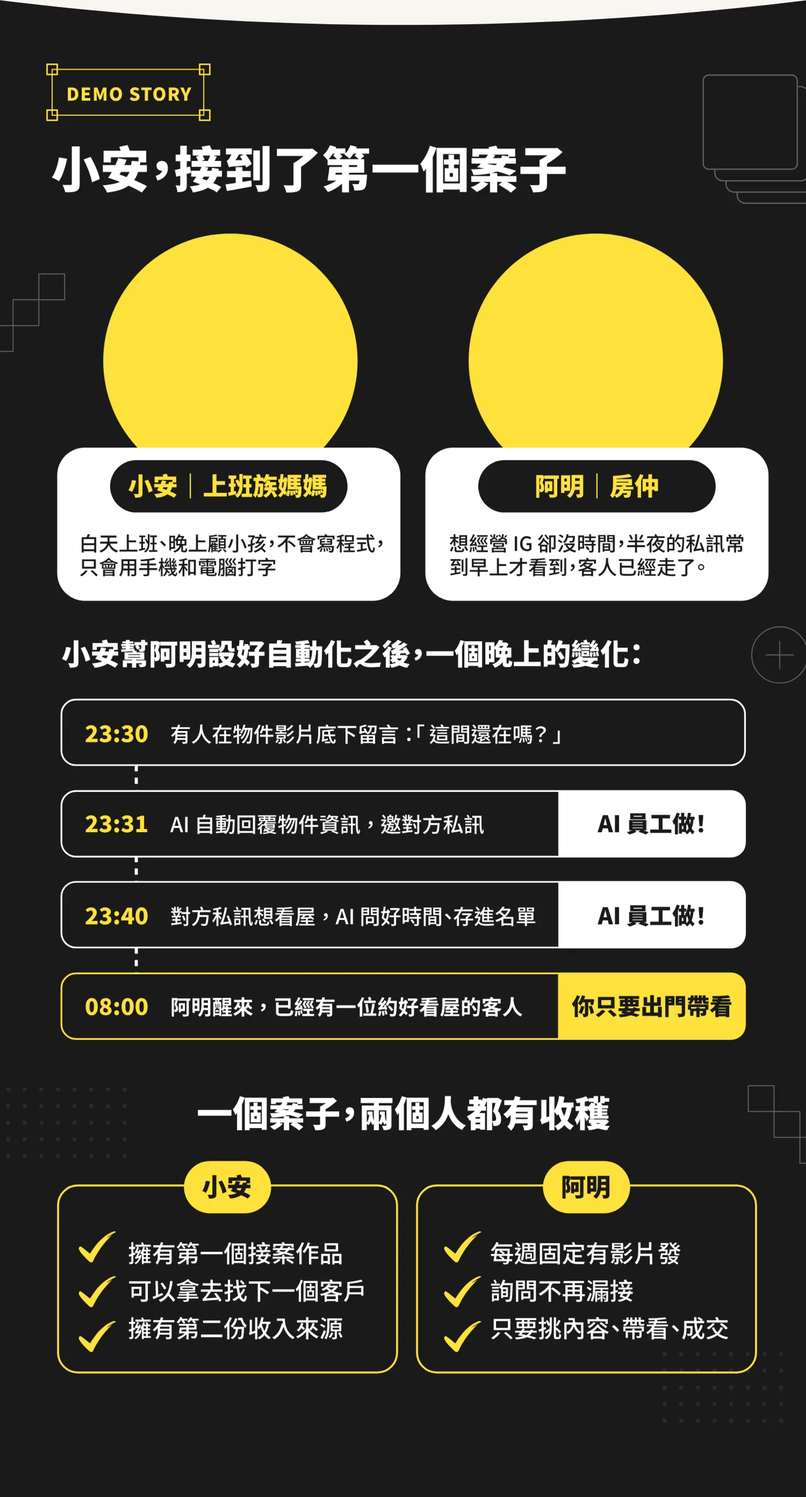
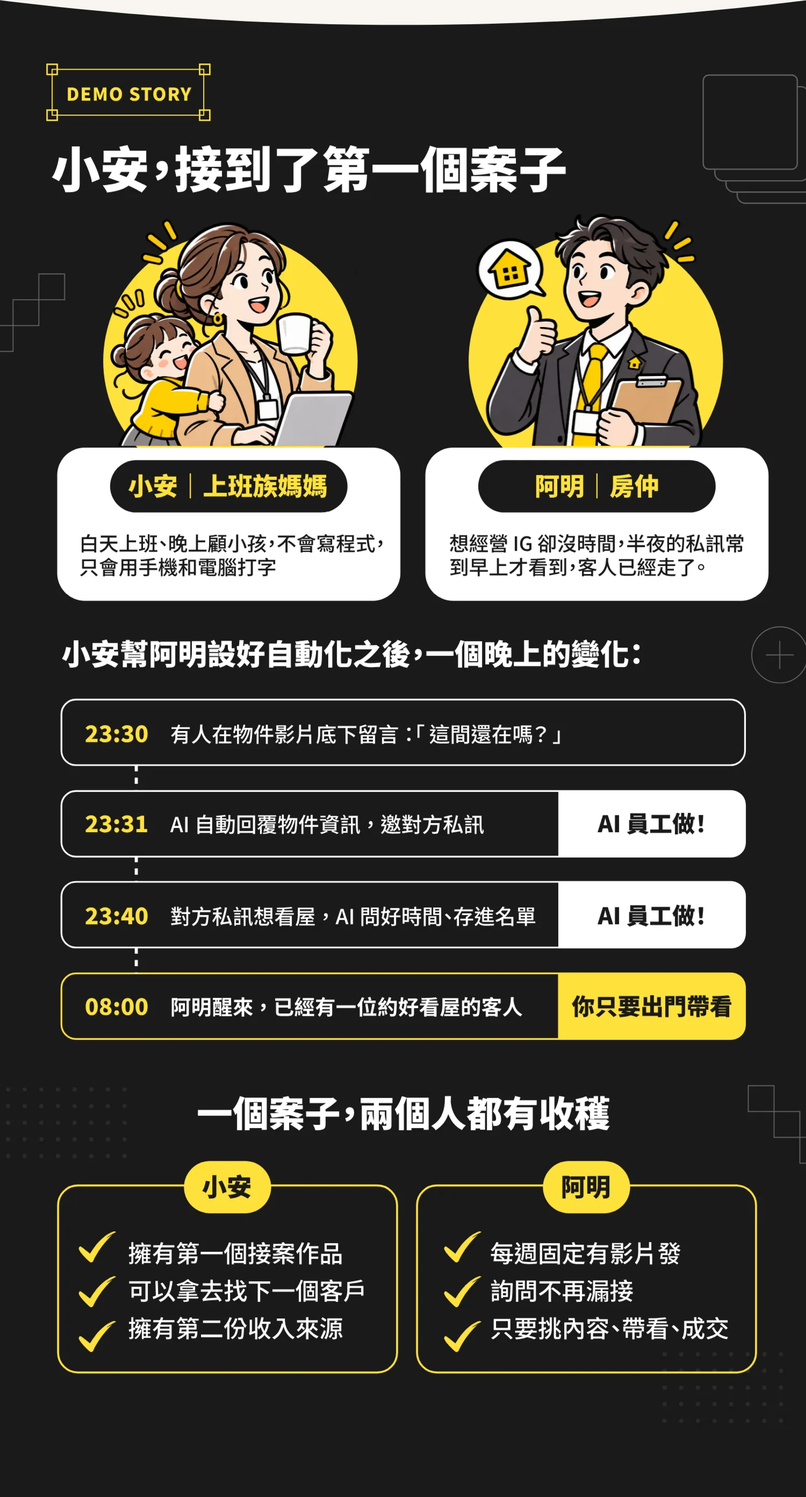
br-order: bake illustrations into section bases; animate only buttons and emphasis
Claude-Session: https://claude.ai/code/session_016nzG4RAtAFM2gf9k9NB6ra

Changed region(s): [[0.5827, 0.1236, 0.8893, 0.309], [0.1227, 0.1236, 0.46, 0.309]]

diff --git a/br-order/index.html b/br-order/index.html
@@ -35,116 +35,88 @@ html,body{margin:0;background:#101014}
 <body>
 <main class="page">
 <section class="sec" style="aspect-ratio:1500/2582">
-<img class="base" src="./s01/base.webp?v=2" alt="" width="1500" height="2582">
-<div class="ill float" style="left:25.162%;top:45.984%;width:52.667%;--d:0.0s"><img src="./s01/l9.webp?v=2" alt="" loading="lazy"></div>
-<div class="ill swing" style="left:5.262%;top:26.57%;width:18.067%;--d:-0.9s"><img src="./s01/l13.webp?v=2" alt="" loading="lazy"></div>
-<div class="fx pulse shine" style="left:12.667%;top:77.847%;width:76.667%;height:6.584%;background-image:url(./s01/base.webp?v=2);background-size:130.435% auto;background-position:54.286% 83.333%;border-radius:0.70% / 4.71%;--i:0"></div>
+<img class="base" src="./s01/base.webp?v=3" alt="" width="1500" height="2582">
+<div class="fx pulse shine" style="left:12.667%;top:77.847%;width:76.667%;height:6.584%;background-image:url(./s01/base.webp?v=3);background-size:130.435% auto;background-position:54.286% 83.333%;border-radius:0.70% / 4.71%;--i:0"></div>
 </section>
 <section class="sec" style="aspect-ratio:1500/2236">
-<img class="base" src="./s02/base.webp?v=2" alt="" width="1500" height="2236" loading="lazy">
-<div class="fx pulse" style="left:53.667%;top:12.299%;width:16.333%;height:10.063%;background-image:url(./s02/base.webp?v=2);background-size:612.245% auto;background-position:64.143% 13.675%;border-radius:0.00% / 0.00%;--i:0"></div>
-<div class="fx wiggle" style="left:8.667%;top:28.399%;width:9.000%;height:6.261%;background-image:url(./s02/base.webp?v=2);background-size:1111.111% auto;background-position:9.524% 30.296%;border-radius:0.00% / 0.00%;--i:1"></div>
-<div class="fx wiggle" style="left:8.667%;top:43.292%;width:9.000%;height:6.261%;background-image:url(./s02/base.webp?v=2);background-size:1111.111% auto;background-position:9.524% 46.183%;border-radius:0.00% / 0.00%;--i:2"></div>
-<div class="fx wiggle" style="left:8.667%;top:58.229%;width:9.000%;height:6.261%;background-image:url(./s02/base.webp?v=2);background-size:1111.111% auto;background-position:9.524% 62.118%;border-radius:0.00% / 0.00%;--i:3"></div>
-<div class="fx wiggle" style="left:8.667%;top:72.898%;width:9.000%;height:6.485%;background-image:url(./s02/base.webp?v=2);background-size:1111.111% auto;background-position:9.524% 77.953%;border-radius:0.00% / 0.00%;--i:4"></div>
-<div class="fx wiggle" style="left:86.333%;top:91.234%;width:11.000%;height:6.932%;background-image:url(./s02/base.webp?v=2);background-size:909.091% auto;background-position:97.004% 98.030%;border-radius:0.00% / 0.00%;--i:5"></div>
-<div class="fx shine soft" style="left:8.000%;top:84.302%;width:84.333%;height:11.852%;background-image:url(./s02/base.webp?v=2);background-size:118.577% auto;background-position:51.064% 95.637%;border-radius:0.00% / 0.00%;--i:6"></div>
+<img class="base" src="./s02/base.webp?v=3" alt="" width="1500" height="2236" loading="lazy">
+<div class="fx pulse" style="left:53.667%;top:12.299%;width:16.333%;height:10.063%;background-image:url(./s02/base.webp?v=3);background-size:612.245% auto;background-position:64.143% 13.675%;border-radius:0.00% / 0.00%;--i:0"></div>
+<div class="fx wiggle" style="left:8.667%;top:28.399%;width:9.000%;height:6.261%;background-image:url(./s02/base.webp?v=3);background-size:1111.111% auto;background-position:9.524% 30.296%;border-radius:0.00% / 0.00%;--i:1"></div>
+<div class="fx wiggle" style="left:8.667%;top:43.292%;width:9.000%;height:6.261%;background-image:url(./s02/base.webp?v=3);background-size:1111.111% auto;background-position:9.524% 46.183%;border-radius:0.00% / 0.00%;--i:2"></div>
+<div class="fx wiggle" style="left:8.667%;top:58.229%;width:9.000%;height:6.261%;background-image:url(./s02/base.webp?v=3);background-size:1111.111% auto;background-position:9.524% 62.118%;border-radius:0.00% / 0.00%;--i:3"></div>
+<div class="fx wiggle" style="left:8.667%;top:72.898%;width:9.000%;height:6.485%;background-image:url(./s02/base.webp?v=3);background-size:1111.111% auto;background-position:9.524% 77.953%;border-radius:0.00% / 0.00%;--i:4"></div>
+<div class="fx shine soft" style="left:8.000%;top:84.302%;width:84.333%;height:11.852%;background-image:url(./s02/base.webp?v=3);background-size:118.577% auto;background-position:51.064% 95.637%;border-radius:0.00% / 0.00%;--i:5"></div>
 </section>
 <section class="sec" style="aspect-ratio:1500/2217">
-<img class="base" src="./s03/base.webp?v=2" alt="" width="1500" height="2217" loading="lazy">
-<div class="fx wiggle" style="left:2.000%;top:4.511%;width:15.000%;height:6.540%;background-image:url(./s03/base.webp?v=2);background-size:666.667% auto;background-position:2.353% 4.826%;border-radius:0.00% / 0.00%;--i:0"></div>
-<div class="fx beat" style="left:6.667%;top:26.387%;width:17.667%;height:6.089%;background-image:url(./s03/base.webp?v=2);background-size:566.038% auto;background-position:8.097% 28.098%;border-radius:0.00% / 0.00%;--i:1"></div>
-<div class="fx beat" style="left:52.667%;top:26.387%;width:17.667%;height:6.089%;background-image:url(./s03/base.webp?v=2);background-size:566.038% auto;background-position:63.968% 28.098%;border-radius:0.00% / 0.00%;--i:2"></div>
-<div class="fx beat" style="left:6.667%;top:45.196%;width:28.000%;height:5.683%;background-image:url(./s03/base.webp?v=2);background-size:357.143% auto;background-position:9.259% 47.920%;border-radius:0.00% / 0.00%;--i:3"></div>
-<div class="fx beat" style="left:52.667%;top:45.196%;width:29.200%;height:5.683%;background-image:url(./s03/base.webp?v=2);background-size:342.466% auto;background-position:74.388% 47.920%;border-radius:0.00% / 0.00%;--i:4"></div>
-<div class="fx beat" style="left:6.667%;top:64.051%;width:23.200%;height:6.180%;background-image:url(./s03/base.webp?v=2);background-size:431.034% auto;background-position:8.681% 68.269%;border-radius:0.00% / 0.00%;--i:5"></div>
-<div class="fx beat" style="left:52.667%;top:64.051%;width:27.200%;height:6.180%;background-image:url(./s03/base.webp?v=2);background-size:367.647% auto;background-position:72.344% 68.269%;border-radius:0.00% / 0.00%;--i:6"></div>
-<div class="fx shine" style="left:5.667%;top:88.408%;width:88.667%;height:5.954%;background-image:url(./s03/base.webp?v=2);background-size:112.782% auto;background-position:50.000% 94.005%;border-radius:0.00% / 0.00%;--i:7"></div>
+<img class="base" src="./s03/base.webp?v=3" alt="" width="1500" height="2217" loading="lazy">
+<div class="fx beat" style="left:6.667%;top:26.387%;width:17.667%;height:6.089%;background-image:url(./s03/base.webp?v=3);background-size:566.038% auto;background-position:8.097% 28.098%;border-radius:0.00% / 0.00%;--i:0"></div>
+<div class="fx beat" style="left:52.667%;top:26.387%;width:17.667%;height:6.089%;background-image:url(./s03/base.webp?v=3);background-size:566.038% auto;background-position:63.968% 28.098%;border-radius:0.00% / 0.00%;--i:1"></div>
+<div class="fx beat" style="left:6.667%;top:45.196%;width:28.000%;height:5.683%;background-image:url(./s03/base.webp?v=3);background-size:357.143% auto;background-position:9.259% 47.920%;border-radius:0.00% / 0.00%;--i:2"></div>
+<div class="fx beat" style="left:52.667%;top:45.196%;width:29.200%;height:5.683%;background-image:url(./s03/base.webp?v=3);background-size:342.466% auto;background-position:74.388% 47.920%;border-radius:0.00% / 0.00%;--i:3"></div>
+<div class="fx beat" style="left:6.667%;top:64.051%;width:23.200%;height:6.180%;background-image:url(./s03/base.webp?v=3);background-size:431.034% auto;background-position:8.681% 68.269%;border-radius:0.00% / 0.00%;--i:4"></div>
+<div class="fx beat" style="left:52.667%;top:64.051%;width:27.200%;height:6.180%;background-image:url(./s03/base.webp?v=3);background-size:367.647% auto;background-position:72.344% 68.269%;border-radius:0.00% / 0.00%;--i:5"></div>
+<div class="fx shine" style="left:5.667%;top:88.408%;width:88.667%;height:5.954%;background-image:url(./s03/base.webp?v=3);background-size:112.782% auto;background-position:50.000% 94.005%;border-radius:0.00% / 0.00%;--i:6"></div>
 </section>
 <section class="sec" style="aspect-ratio:1500/3288">
-<img class="base" src="./s04/base.webp?v=2" alt="" width="1500" height="3288" loading="lazy">
-<div class="fx pulse" style="left:60.000%;top:14.599%;width:36.000%;height:5.627%;background-image:url(./s04/base.webp?v=2);background-size:277.778% auto;background-position:93.750% 15.469%;border-radius:0.00% / 0.00%;--i:0"></div>
-<div class="fx pulse" style="left:7.467%;top:47.597%;width:14.933%;height:6.904%;background-image:url(./s04/base.webp?v=2);background-size:669.643% auto;background-position:8.777% 51.127%;border-radius:0.00% / 0.00%;--i:1"></div>
-<div class="fx pulse" style="left:34.467%;top:47.597%;width:15.200%;height:6.904%;background-image:url(./s04/base.webp?v=2);background-size:657.895% auto;background-position:40.645% 51.127%;border-radius:0.00% / 0.00%;--i:2"></div>
-<div class="fx pulse" style="left:63.533%;top:47.597%;width:15.000%;height:6.904%;background-image:url(./s04/base.webp?v=2);background-size:666.667% auto;background-position:74.745% 51.127%;border-radius:0.00% / 0.00%;--i:3"></div>
-<div class="fx pulse" style="left:67.467%;top:57.725%;width:21.867%;height:3.467%;background-image:url(./s04/base.webp?v=2);background-size:457.317% auto;background-position:86.348% 59.798%;border-radius:0.00% / 0.00%;--i:4"></div>
-<div class="fx pulse" style="left:67.467%;top:65.328%;width:21.867%;height:3.528%;background-image:url(./s04/base.webp?v=2);background-size:457.317% auto;background-position:86.348% 67.718%;border-radius:0.00% / 0.00%;--i:5"></div>
-<div class="fx pulse" style="left:67.467%;top:73.084%;width:21.867%;height:3.528%;background-image:url(./s04/base.webp?v=2);background-size:457.317% auto;background-position:86.348% 75.757%;border-radius:0.00% / 0.00%;--i:6"></div>
-<div class="fx pulse" style="left:66.667%;top:80.748%;width:22.667%;height:3.498%;background-image:url(./s04/base.webp?v=2);background-size:441.176% auto;background-position:86.207% 83.675%;border-radius:0.00% / 0.00%;--i:7"></div>
-<div class="fx pulse shine" style="left:12.667%;top:89.964%;width:74.667%;height:5.687%;background-image:url(./s04/base.webp?v=2);background-size:133.929% auto;background-position:50.000% 95.389%;border-radius:8.04% / 48.13%;--i:8"></div>
+<img class="base" src="./s04/base.webp?v=3" alt="" width="1500" height="3288" loading="lazy">
+<div class="fx pulse" style="left:60.000%;top:14.599%;width:36.000%;height:5.627%;background-image:url(./s04/base.webp?v=3);background-size:277.778% auto;background-position:93.750% 15.469%;border-radius:0.00% / 0.00%;--i:0"></div>
+<div class="fx pulse" style="left:67.467%;top:57.725%;width:21.867%;height:3.467%;background-image:url(./s04/base.webp?v=3);background-size:457.317% auto;background-position:86.348% 59.798%;border-radius:0.00% / 0.00%;--i:1"></div>
+<div class="fx pulse" style="left:67.467%;top:65.328%;width:21.867%;height:3.528%;background-image:url(./s04/base.webp?v=3);background-size:457.317% auto;background-position:86.348% 67.718%;border-radius:0.00% / 0.00%;--i:2"></div>
+<div class="fx pulse" style="left:67.467%;top:73.084%;width:21.867%;height:3.528%;background-image:url(./s04/base.webp?v=3);background-size:457.317% auto;background-position:86.348% 75.757%;border-radius:0.00% / 0.00%;--i:3"></div>
+<div class="fx pulse" style="left:66.667%;top:80.748%;width:22.667%;height:3.498%;background-image:url(./s04/base.webp?v=3);background-size:441.176% auto;background-position:86.207% 83.675%;border-radius:0.00% / 0.00%;--i:4"></div>
+<div class="fx pulse shine" style="left:12.667%;top:89.964%;width:74.667%;height:5.687%;background-image:url(./s04/base.webp?v=3);background-size:133.929% auto;background-position:50.000% 95.389%;border-radius:8.04% / 48.13%;--i:5"></div>
 </section>
 <section class="sec" style="aspect-ratio:1500/1785">
-<img class="base" src="./s05/base.webp?v=2" alt="" width="1500" height="1785" loading="lazy">
-<div class="ill float" style="left:14.628%;top:27.715%;width:70.333%;--d:0.0s"><img src="./s05/l8.webp?v=2" alt="" loading="lazy"></div>
-<div class="fx shine soft" style="left:16.667%;top:14.286%;width:67.467%;height:13.445%;background-image:url(./s05/base.webp?v=2);background-size:148.221% auto;background-position:51.230% 16.505%;border-radius:0.00% / 0.00%;--i:0"></div>
-<div class="fx beat" style="left:7.867%;top:69.356%;width:25.867%;height:17.927%;background-image:url(./s05/base.webp?v=2);background-size:386.598% auto;background-position:10.612% 84.505%;border-radius:0.00% / 0.00%;--i:1"></div>
-<div class="fx beat" style="left:37.400%;top:69.356%;width:25.867%;height:17.927%;background-image:url(./s05/base.webp?v=2);background-size:386.598% auto;background-position:50.450% 84.505%;border-radius:0.00% / 0.00%;--i:2"></div>
-<div class="fx beat" style="left:66.400%;top:69.356%;width:25.933%;height:17.927%;background-image:url(./s05/base.webp?v=2);background-size:385.604% auto;background-position:89.649% 84.505%;border-radius:0.00% / 0.00%;--i:3"></div>
-<div class="fx pulse shine" style="left:13.667%;top:88.796%;width:72.667%;height:7.843%;background-image:url(./s05/base.webp?v=2);background-size:137.615% auto;background-position:50.000% 96.353%;border-radius:0.92% / 7.14%;--i:4"></div>
+<img class="base" src="./s05/base.webp?v=3" alt="" width="1500" height="1785" loading="lazy">
+<div class="fx shine soft" style="left:16.667%;top:14.286%;width:67.467%;height:13.445%;background-image:url(./s05/base.webp?v=3);background-size:148.221% auto;background-position:51.230% 16.505%;border-radius:0.00% / 0.00%;--i:0"></div>
+<div class="fx beat" style="left:7.867%;top:69.356%;width:25.867%;height:17.927%;background-image:url(./s05/base.webp?v=3);background-size:386.598% auto;background-position:10.612% 84.505%;border-radius:0.00% / 0.00%;--i:1"></div>
+<div class="fx beat" style="left:37.400%;top:69.356%;width:25.867%;height:17.927%;background-image:url(./s05/base.webp?v=3);background-size:386.598% auto;background-position:50.450% 84.505%;border-radius:0.00% / 0.00%;--i:2"></div>
+<div class="fx beat" style="left:66.400%;top:69.356%;width:25.933%;height:17.927%;background-image:url(./s05/base.webp?v=3);background-size:385.604% auto;background-position:89.649% 84.505%;border-radius:0.00% / 0.00%;--i:3"></div>
+<div class="fx pulse shine" style="left:13.667%;top:88.796%;width:72.667%;height:7.843%;background-image:url(./s05/base.webp?v=3);background-size:137.615% auto;background-position:50.000% 96.353%;border-radius:0.92% / 7.14%;--i:4"></div>
 </section>
 <section class="sec" style="aspect-ratio:1500/2783">
-<img class="base" src="./s06/base.webp?v=2" alt="" width="1500" height="2783" loading="lazy">
-<div class="ill float" style="left:13.629%;top:14.6%;width:30.733%;--d:0.0s"><img src="./s06/l15.webp?v=2" alt="" loading="lazy"></div>
-<div class="ill float" style="left:58.948%;top:14.238%;width:28.4%;--d:-0.9s"><img src="./s06/l16.webp?v=2" alt="" loading="lazy"></div>
-<div class="fx shine" style="left:6.000%;top:3.881%;width:20.333%;height:4.312%;background-image:url(./s06/base.webp?v=2);background-size:491.803% auto;background-position:7.531% 4.056%;border-radius:0.00% / 0.00%;--i:0"></div>
-<div class="fx pulse" style="left:69.333%;top:52.641%;width:23.333%;height:4.635%;background-image:url(./s06/base.webp?v=2);background-size:428.571% auto;background-position:90.435% 55.200%;border-radius:0.00% / 0.00%;--i:1"></div>
-<div class="fx pulse" style="left:69.333%;top:58.714%;width:23.333%;height:4.743%;background-image:url(./s06/base.webp?v=2);background-size:428.571% auto;background-position:90.435% 61.637%;border-radius:0.00% / 0.00%;--i:2"></div>
-<div class="fx pulse" style="left:69.333%;top:64.894%;width:23.333%;height:4.563%;background-image:url(./s06/base.webp?v=2);background-size:428.571% auto;background-position:90.435% 67.997%;border-radius:0.00% / 0.00%;--i:3"></div>
+<img class="base" src="./s06/base.webp?v=3" alt="" width="1500" height="2783" loading="lazy">
+<div class="fx shine" style="left:6.000%;top:3.881%;width:20.333%;height:4.312%;background-image:url(./s06/base.webp?v=3);background-size:491.803% auto;background-position:7.531% 4.056%;border-radius:0.00% / 0.00%;--i:0"></div>
+<div class="fx pulse" style="left:69.333%;top:52.641%;width:23.333%;height:4.635%;background-image:url(./s06/base.webp?v=3);background-size:428.571% auto;background-position:90.435% 55.200%;border-radius:0.00% / 0.00%;--i:1"></div>
+<div class="fx pulse" style="left:69.333%;top:58.714%;width:23.333%;height:4.743%;background-image:url(./s06/base.webp?v=3);background-size:428.571% auto;background-position:90.435% 61.637%;border-radius:0.00% / 0.00%;--i:2"></div>
+<div class="fx pulse" style="left:69.333%;top:64.894%;width:23.333%;height:4.563%;background-image:url(./s06/base.webp?v=3);background-size:428.571% auto;background-position:90.435% 67.997%;border-radius:0.00% / 0.00%;--i:3"></div>
 </section>
 <section class="sec" style="aspect-ratio:1500/2179">
-<img class="base" src="./s07/base.webp?v=2" alt="" width="1500" height="2179" loading="lazy">
-<div class="ill float" style="left:3.647%;top:0.539%;width:22.067%;--d:0.0s"><img src="./s07/l11.webp?v=2" alt="" loading="lazy"></div>
-<div class="fx wiggle" style="left:83.667%;top:17.210%;width:12.800%;height:10.877%;background-image:url(./s07/base.webp?v=2);background-size:781.250% auto;background-position:95.948% 19.310%;border-radius:0.00% / 0.00%;--i:0"></div>
-<div class="fx wiggle" style="left:6.000%;top:60.349%;width:12.133%;height:9.867%;background-image:url(./s07/base.webp?v=2);background-size:824.176% auto;background-position:6.829% 66.955%;border-radius:0.00% / 0.00%;--i:1"></div>
-<div class="fx pulse" style="left:7.333%;top:83.892%;width:24.000%;height:7.572%;background-image:url(./s07/base.webp?v=2);background-size:416.667% auto;background-position:9.649% 90.765%;border-radius:0.00% / 0.00%;--i:2"></div>
-<div class="fx pulse shine soft" style="left:32.000%;top:84.901%;width:58.000%;height:6.654%;background-image:url(./s07/base.webp?v=2);background-size:172.414% auto;background-position:76.190% 90.954%;border-radius:0.00% / 0.00%;--i:3"></div>
+<img class="base" src="./s07/base.webp?v=3" alt="" width="1500" height="2179" loading="lazy">
+<div class="fx pulse" style="left:7.333%;top:83.892%;width:24.000%;height:7.572%;background-image:url(./s07/base.webp?v=3);background-size:416.667% auto;background-position:9.649% 90.765%;border-radius:0.00% / 0.00%;--i:0"></div>
+<div class="fx pulse shine soft" style="left:32.000%;top:84.901%;width:58.000%;height:6.654%;background-image:url(./s07/base.webp?v=3);background-size:172.414% auto;background-position:76.190% 90.954%;border-radius:0.00% / 0.00%;--i:1"></div>
 </section>
 <section class="sec" style="aspect-ratio:1500/3701">
-<img class="base" src="./s08/base.webp?v=2" alt="" width="1500" height="3701" loading="lazy">
-<div class="ill float" style="left:15.573%;top:31.108%;width:24.067%;--d:0.0s"><img src="./s08/l4.webp?v=2" alt="" loading="lazy"></div>
-<div class="ill float" style="left:61.563%;top:12.223%;width:22.867%;--d:-0.9s"><img src="./s08/l5.webp?v=2" alt="" loading="lazy"></div>
-<div class="ill float" style="left:59.254%;top:30.576%;width:25.867%;--d:-1.8s"><img src="./s08/l6.webp?v=2" alt="" loading="lazy"></div>
-<div class="ill float" style="left:14.346%;top:11.639%;width:26.933%;--d:-2.7s"><img src="./s08/l7.webp?v=2" alt="" loading="lazy"></div>
-<div class="ill float" style="left:65.0%;top:53.629%;width:30.267%;--d:-3.6s"><img src="./s08/l10.webp?v=2" alt="" loading="lazy"></div>
-<div class="fx wiggle" style="left:79.000%;top:0.811%;width:11.000%;height:5.458%;background-image:url(./s08/base.webp?v=2);background-size:909.091% auto;background-position:88.764% 0.857%;border-radius:0.00% / 0.00%;--i:0"></div>
-<div class="fx beat" style="left:6.667%;top:55.120%;width:13.000%;height:5.188%;background-image:url(./s08/base.webp?v=2);background-size:769.231% auto;background-position:7.663% 58.136%;border-radius:0.00% / 0.00%;--i:1"></div>
-<div class="fx wiggle flag" style="left:6.667%;top:62.145%;width:16.667%;height:7.160%;background-image:url(./s08/base.webp?v=2);background-size:600.000% auto;background-position:8.000% 66.938%;border-radius:0.00% / 0.00%;--i:2"></div>
-<div class="fx wiggle flag" style="left:13.800%;top:69.927%;width:16.733%;height:7.079%;background-image:url(./s08/base.webp?v=2);background-size:597.610% auto;background-position:16.573% 75.254%;border-radius:0.00% / 0.00%;--i:3"></div>
-<div class="fx wiggle flag" style="left:6.667%;top:79.573%;width:16.667%;height:6.755%;background-image:url(./s08/base.webp?v=2);background-size:600.000% auto;background-position:8.000% 85.338%;border-radius:0.00% / 0.00%;--i:4"></div>
-<div class="fx wiggle flag" style="left:13.000%;top:87.949%;width:17.533%;height:7.106%;background-image:url(./s08/base.webp?v=2);background-size:570.342% auto;background-position:15.764% 94.677%;border-radius:0.00% / 0.00%;--i:5"></div>
+<img class="base" src="./s08/base.webp?v=3" alt="" width="1500" height="3701" loading="lazy">
+<div class="fx beat" style="left:6.667%;top:55.120%;width:13.000%;height:5.188%;background-image:url(./s08/base.webp?v=3);background-size:769.231% auto;background-position:7.663% 58.136%;border-radius:0.00% / 0.00%;--i:0"></div>
 </section>
 <section class="sec" style="aspect-ratio:1500/1783">
-<img class="base" src="./s09/base.webp?v=2" alt="" width="1500" height="1783" loading="lazy">
-<div class="fx beat" style="left:9.200%;top:33.259%;width:8.267%;height:6.955%;background-image:url(./s09/base.webp?v=2);background-size:1209.677% auto;background-position:10.029% 35.744%;border-radius:0.00% / 0.00%;--i:0"></div>
-<div class="fx beat" style="left:9.200%;top:43.522%;width:8.267%;height:6.955%;background-image:url(./s09/base.webp?v=2);background-size:1209.677% auto;background-position:10.029% 46.775%;border-radius:0.00% / 0.00%;--i:1"></div>
-<div class="fx beat" style="left:9.200%;top:53.954%;width:8.267%;height:6.955%;background-image:url(./s09/base.webp?v=2);background-size:1209.677% auto;background-position:10.029% 57.987%;border-radius:0.00% / 0.00%;--i:2"></div>
-<div class="fx beat" style="left:9.200%;top:64.610%;width:8.267%;height:6.955%;background-image:url(./s09/base.webp?v=2);background-size:1209.677% auto;background-position:10.029% 69.439%;border-radius:0.00% / 0.00%;--i:3"></div>
-<div class="fx beat" style="left:9.200%;top:75.042%;width:8.267%;height:6.955%;background-image:url(./s09/base.webp?v=2);background-size:1209.677% auto;background-position:10.029% 80.651%;border-radius:0.00% / 0.00%;--i:4"></div>
-<div class="fx wiggle" style="left:53.067%;top:33.259%;width:7.933%;height:6.955%;background-image:url(./s09/base.webp?v=2);background-size:1260.504% auto;background-position:57.639% 35.744%;border-radius:0.00% / 0.00%;--i:5"></div>
-<div class="fx wiggle" style="left:53.067%;top:43.522%;width:7.933%;height:6.955%;background-image:url(./s09/base.webp?v=2);background-size:1260.504% auto;background-position:57.639% 46.775%;border-radius:0.00% / 0.00%;--i:6"></div>
-<div class="fx wiggle" style="left:53.067%;top:53.954%;width:7.933%;height:6.955%;background-image:url(./s09/base.webp?v=2);background-size:1260.504% auto;background-position:57.639% 57.987%;border-radius:0.00% / 0.00%;--i:7"></div>
-<div class="fx wiggle" style="left:53.067%;top:64.610%;width:7.933%;height:6.955%;background-image:url(./s09/base.webp?v=2);background-size:1260.504% auto;background-position:57.639% 69.439%;border-radius:0.00% / 0.00%;--i:8"></div>
-<div class="fx wiggle" style="left:53.067%;top:75.042%;width:7.933%;height:6.955%;background-image:url(./s09/base.webp?v=2);background-size:1260.504% auto;background-position:57.639% 80.651%;border-radius:0.00% / 0.00%;--i:9"></div>
-<div class="fx shine" style="left:5.200%;top:88.054%;width:89.333%;height:8.188%;background-image:url(./s09/base.webp?v=2);background-size:111.940% auto;background-position:48.750% 95.907%;border-radius:0.00% / 0.00%;--i:10"></div>
+<img class="base" src="./s09/base.webp?v=3" alt="" width="1500" height="1783" loading="lazy">
+<div class="fx beat" style="left:9.200%;top:33.259%;width:8.267%;height:6.955%;background-image:url(./s09/base.webp?v=3);background-size:1209.677% auto;background-position:10.029% 35.744%;border-radius:0.00% / 0.00%;--i:0"></div>
+<div class="fx beat" style="left:9.200%;top:43.522%;width:8.267%;height:6.955%;background-image:url(./s09/base.webp?v=3);background-size:1209.677% auto;background-position:10.029% 46.775%;border-radius:0.00% / 0.00%;--i:1"></div>
+<div class="fx beat" style="left:9.200%;top:53.954%;width:8.267%;height:6.955%;background-image:url(./s09/base.webp?v=3);background-size:1209.677% auto;background-position:10.029% 57.987%;border-radius:0.00% / 0.00%;--i:2"></div>
+<div class="fx beat" style="left:9.200%;top:64.610%;width:8.267%;height:6.955%;background-image:url(./s09/base.webp?v=3);background-size:1209.677% auto;background-position:10.029% 69.439%;border-radius:0.00% / 0.00%;--i:3"></div>
+<div class="fx beat" style="left:9.200%;top:75.042%;width:8.267%;height:6.955%;background-image:url(./s09/base.webp?v=3);background-size:1209.677% auto;background-position:10.029% 80.651%;border-radius:0.00% / 0.00%;--i:4"></div>
+<div class="fx wiggle" style="left:53.067%;top:33.259%;width:7.933%;height:6.955%;background-image:url(./s09/base.webp?v=3);background-size:1260.504% auto;background-position:57.639% 35.744%;border-radius:0.00% / 0.00%;--i:5"></div>
+<div class="fx wiggle" style="left:53.067%;top:43.522%;width:7.933%;height:6.955%;background-image:url(./s09/base.webp?v=3);background-size:1260.504% auto;background-position:57.639% 46.775%;border-radius:0.00% / 0.00%;--i:6"></div>
+<div class="fx wiggle" style="left:53.067%;top:53.954%;width:7.933%;height:6.955%;background-image:url(./s09/base.webp?v=3);background-size:1260.504% auto;background-position:57.639% 57.987%;border-radius:0.00% / 0.00%;--i:7"></div>
+<div class="fx wiggle" style="left:53.067%;top:64.610%;width:7.933%;height:6.955%;background-image:url(./s09/base.webp?v=3);background-size:1260.504% auto;background-position:57.639% 69.439%;border-radius:0.00% / 0.00%;--i:8"></div>
+<div class="fx wiggle" style="left:53.067%;top:75.042%;width:7.933%;height:6.955%;background-image:url(./s09/base.webp?v=3);background-size:1260.504% auto;background-position:57.639% 80.651%;border-radius:0.00% / 0.00%;--i:9"></div>
+<div class="fx shine" style="left:5.200%;top:88.054%;width:89.333%;height:8.188%;background-image:url(./s09/base.webp?v=3);background-size:111.940% auto;background-position:48.750% 95.907%;border-radius:0.00% / 0.00%;--i:10"></div>
 </section>
 <section class="sec" style="aspect-ratio:1500/1889">
-<img class="base" src="./s10/base.webp?v=2" alt="" width="1500" height="1889" loading="lazy">
-<div class="ill float" style="left:53.184%;top:32.133%;width:35.333%;--d:0.0s"><img src="./s10/l12.webp?v=2" alt="" loading="lazy"></div>
-<div class="fx wiggle" style="left:4.000%;top:13.870%;width:8.800%;height:7.835%;background-image:url(./s10/base.webp?v=2);background-size:1136.364% auto;background-position:4.386% 15.049%;border-radius:0.00% / 0.00%;--i:0"></div>
-<div class="fx wiggle" style="left:35.267%;top:13.870%;width:8.800%;height:7.835%;background-image:url(./s10/base.webp?v=2);background-size:1136.364% auto;background-position:38.670% 15.049%;border-radius:0.00% / 0.00%;--i:1"></div>
-<div class="fx wiggle" style="left:65.067%;top:13.870%;width:8.800%;height:7.835%;background-image:url(./s10/base.webp?v=2);background-size:1136.364% auto;background-position:71.345% 15.049%;border-radius:0.00% / 0.00%;--i:2"></div>
-<div class="fx shine" style="left:15.467%;top:44.733%;width:25.867%;height:6.617%;background-image:url(./s10/base.webp?v=2);background-size:386.598% auto;background-position:20.863% 47.902%;border-radius:0.00% / 0.00%;--i:3"></div>
-<div class="fx pulse" style="left:18.667%;top:52.673%;width:57.667%;height:9.370%;background-image:url(./s10/base.webp?v=2);background-size:173.410% auto;background-position:44.094% 58.119%;border-radius:0.00% / 0.00%;--i:4"></div>
-<div class="fx pulse shine" style="left:18.133%;top:68.978%;width:64.067%;height:7.570%;background-image:url(./s10/base.webp?v=2);background-size:156.087% auto;background-position:50.464% 74.628%;border-radius:7.28% / 48.95%;--i:5"></div>
-<div class="fx pulse" style="left:55.867%;top:79.142%;width:25.467%;height:6.194%;background-image:url(./s10/base.webp?v=2);background-size:392.670% auto;background-position:74.955% 84.368%;border-radius:0.00% / 0.00%;--i:6"></div>
+<img class="base" src="./s10/base.webp?v=3" alt="" width="1500" height="1889" loading="lazy">
+<div class="fx shine" style="left:15.467%;top:44.733%;width:25.867%;height:6.617%;background-image:url(./s10/base.webp?v=3);background-size:386.598% auto;background-position:20.863% 47.902%;border-radius:0.00% / 0.00%;--i:0"></div>
+<div class="fx pulse" style="left:18.667%;top:52.673%;width:57.667%;height:9.370%;background-image:url(./s10/base.webp?v=3);background-size:173.410% auto;background-position:44.094% 58.119%;border-radius:0.00% / 0.00%;--i:1"></div>
+<div class="fx pulse shine" style="left:18.133%;top:68.978%;width:64.067%;height:7.570%;background-image:url(./s10/base.webp?v=3);background-size:156.087% auto;background-position:50.464% 74.628%;border-radius:7.28% / 48.95%;--i:2"></div>
+<div class="fx pulse" style="left:55.867%;top:79.142%;width:25.467%;height:6.194%;background-image:url(./s10/base.webp?v=3);background-size:392.670% auto;background-position:74.955% 84.368%;border-radius:0.00% / 0.00%;--i:3"></div>
 </section>
 <section class="sec" style="aspect-ratio:1500/2435">
-<img class="base" src="./s11/base.webp?v=2" alt="" width="1500" height="2435" loading="lazy">
-<div class="ill float" style="left:4.176%;top:61.7%;width:27.667%;--d:0.0s"><img src="./s11/l27.webp?v=2" alt="" loading="lazy"></div>
-<div class="fx shine soft" style="left:35.333%;top:79.466%;width:55.867%;height:4.846%;background-image:url(./s11/base.webp?v=2);background-size:178.998% auto;background-position:80.060% 83.513%;border-radius:0.00% / 0.00%;--i:0"></div>
-<div class="fx pulse" style="left:2.533%;top:84.394%;width:7.667%;height:5.298%;background-image:url(./s11/base.webp?v=2);background-size:1304.348% auto;background-position:2.744% 89.115%;border-radius:0.00% / 0.00%;--i:1"></div>
-<div class="fx pulse" style="left:88.533%;top:84.394%;width:7.800%;height:5.298%;background-image:url(./s11/base.webp?v=2);background-size:1282.051% auto;background-position:96.023% 89.115%;border-radius:0.00% / 0.00%;--i:2"></div>
-<div class="fx pulse shine" style="left:12.333%;top:85.832%;width:75.000%;height:7.803%;background-image:url(./s11/base.webp?v=2);background-size:133.333% auto;background-position:49.333% 93.096%;border-radius:8.44% / 50.00%;--i:3"></div>
+<img class="base" src="./s11/base.webp?v=3" alt="" width="1500" height="2435" loading="lazy">
+<div class="fx shine soft" style="left:35.333%;top:79.466%;width:55.867%;height:4.846%;background-image:url(./s11/base.webp?v=3);background-size:178.998% auto;background-position:80.060% 83.513%;border-radius:0.00% / 0.00%;--i:0"></div>
+<div class="fx pulse" style="left:2.533%;top:84.394%;width:7.667%;height:5.298%;background-image:url(./s11/base.webp?v=3);background-size:1304.348% auto;background-position:2.744% 89.115%;border-radius:0.00% / 0.00%;--i:1"></div>
+<div class="fx pulse" style="left:88.533%;top:84.394%;width:7.800%;height:5.298%;background-image:url(./s11/base.webp?v=3);background-size:1282.051% auto;background-position:96.023% 89.115%;border-radius:0.00% / 0.00%;--i:2"></div>
+<div class="fx pulse shine" style="left:12.333%;top:85.832%;width:75.000%;height:7.803%;background-image:url(./s11/base.webp?v=3);background-size:133.333% auto;background-position:49.333% 93.096%;border-radius:8.44% / 50.00%;--i:3"></div>
 </section>
 </main>
 <script>
